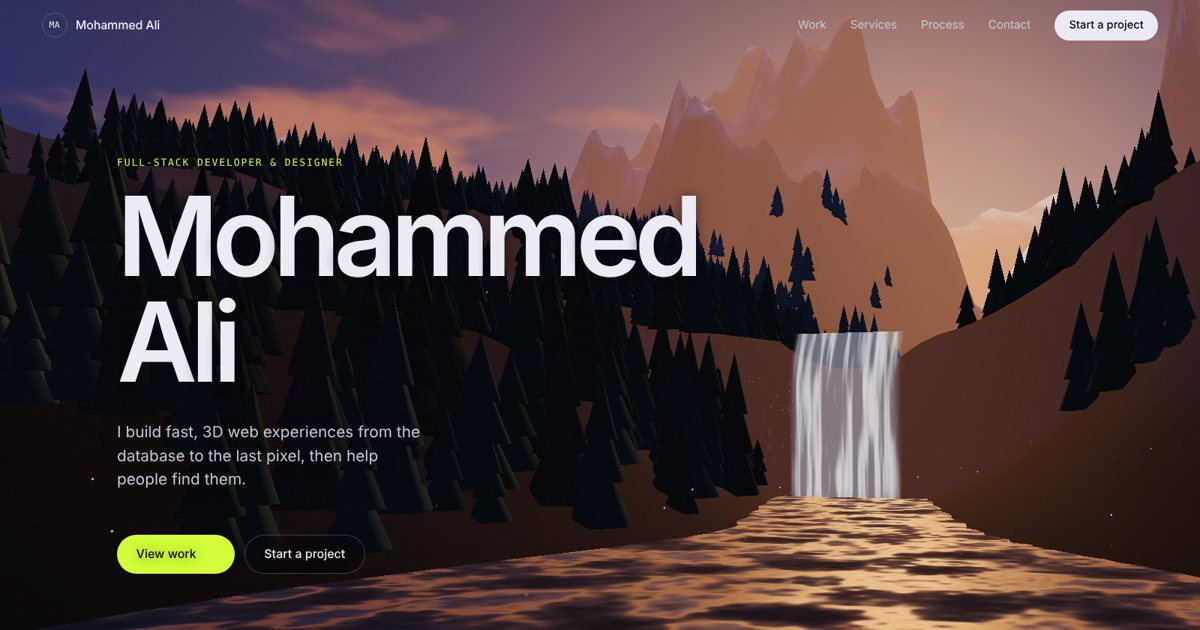
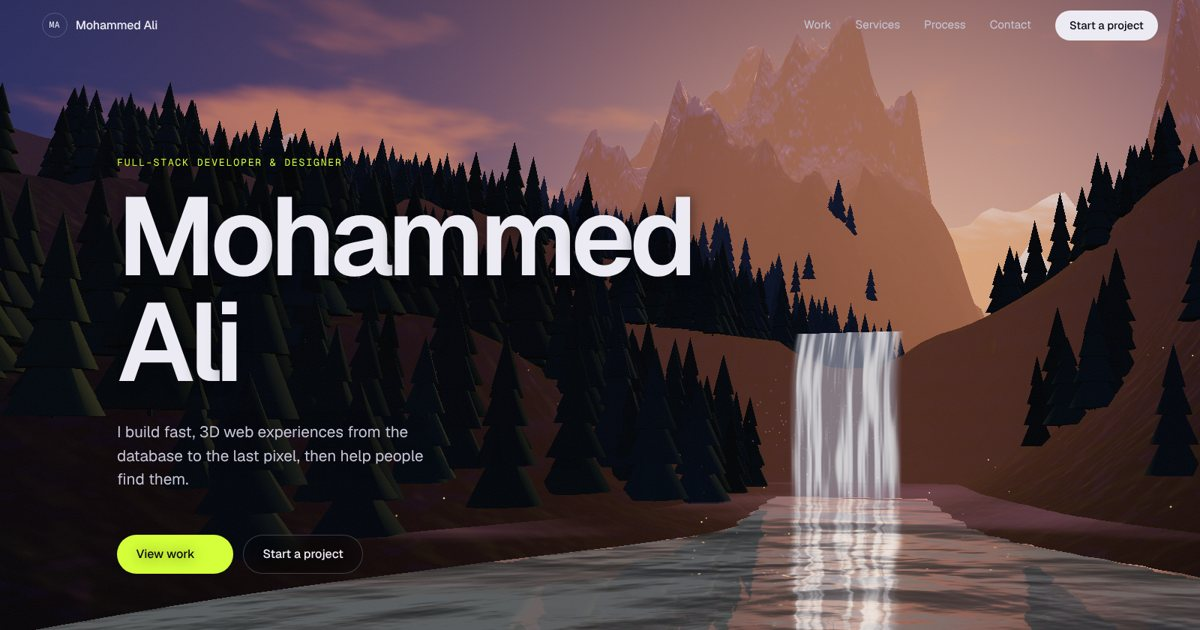
Mirror lake, rocky relief, swaying pines, birds and lake mist
- Lake (and the upper river on desktop) use real-time reflections, so
  the waterfall, peaks, forest and sunset reflect in the water
- Terrain gets fine bump relief, rock strata and darker crevices
- Fuller four-tier pines that sway in the wind
- A flock of birds crossing the valley and low mist over the lake
- Lighter terrain shading and lower pixel ratio on phones
- New poster and social image

Claude-Session: https://claude.ai/code/session_01PqPWpic3SoAv147RGqRmVc

diff --git a/src/scene.js b/src/scene.js
@@ -19,7 +19,9 @@ import {
   BufferAttribute, PlaneGeometry, SphereGeometry, ConeGeometry, ShaderMaterial, MeshLambertMaterial,
   HemisphereLight, DirectionalLight, Object3D, Color, Vector2, Vector3, Fog, MathUtils,
   BackSide, DoubleSide, AdditiveBlending, ACESFilmicToneMapping, SRGBColorSpace,
+  TextureLoader, RepeatWrapping, InstancedBufferAttribute,
 } from 'three';
+import { Water } from 'three/addons/objects/Water.js';
 import { EffectComposer } from 'three/addons/postprocessing/EffectComposer.js';
 import { RenderPass } from 'three/addons/postprocessing/RenderPass.js';
 import { UnrealBloomPass } from 'three/addons/postprocessing/UnrealBloomPass.js';
@@ -153,7 +155,7 @@ function makeChapters() {
 /* ---------------------------------------------------------------- world */
 export function createWorld(canvas, { mobile = false } = {}) {
   const renderer = new WebGLRenderer({ canvas, antialias: !mobile, alpha: false, powerPreference: 'high-performance' });
-  const dpr = Math.min(window.devicePixelRatio || 1, mobile ? 1.5 : 1.75);
+  const dpr = Math.min(window.devicePixelRatio || 1, mobile ? 1.3 : 1.75);
   renderer.setPixelRatio(dpr);
   renderer.toneMapping = ACESFilmicToneMapping;
   renderer.toneMappingExposure = 1.0;
@@ -211,6 +213,7 @@ export function createWorld(canvas, { mobile = false } = {}) {
   for (let i = 0; i < tp.count; i++) tp.setY(i, heightAt(tp.getX(i), tp.getZ(i)));
   tGeo.computeVertexNormals();
   const terrainMat = track(new ShaderMaterial({
+    defines: { DETAIL: mobile ? 0 : 1 },
     uniforms: {
       ...skyU,
       uForest: { value: P.forest }, uMeadow: { value: P.meadow }, uRock: { value: P.rock }, uSnow: { value: P.snow },
@@ -223,6 +226,16 @@ export function createWorld(canvas, { mobile = false } = {}) {
       varying vec3 vW; varying vec3 vN;
       void main(){
         vec3 n = normalize(vN);
+        // fine relief: perturb the normal with a small noise gradient so slopes are not flat
+        vec2 q = vW.xz * 0.22;
+        #if DETAIL
+        float b0 = n2(q) * 0.55 + n2(q * 2.7) * 0.3 + n2(q * 6.1) * 0.15;
+        float bx = n2(q + vec2(0.08, 0.0)) * 0.55 + n2((q + vec2(0.08, 0.0)) * 2.7) * 0.3 + n2((q + vec2(0.08, 0.0)) * 6.1) * 0.15;
+        float bz = n2(q + vec2(0.0, 0.08)) * 0.55 + n2((q + vec2(0.0, 0.08)) * 2.7) * 0.3 + n2((q + vec2(0.0, 0.08)) * 6.1) * 0.15;
+        n = normalize(n + vec3(-(bx - b0), 0.0, -(bz - b0)) * 9.0);
+        #else
+        float b0 = n2(q) * 0.6 + n2(q * 2.7) * 0.4;
+        #endif
         float slope = 1.0 - n.y;
         float h = vW.y;
         float var = fbm2(vW.xz * 0.05);
@@ -230,6 +243,10 @@ export function createWorld(canvas, { mobile = false } = {}) {
         col = mix(col, uRock, smoothstep(0.32, 0.55, slope + var * 0.15));
         col = mix(col, uRock, smoothstep(55.0, 85.0, h + var * 18.0));
         float snow = smoothstep(95.0, 125.0, h + var * 30.0) * (1.0 - smoothstep(0.45, 0.75, slope));
+        // rock strata and darker crevices
+        float rocky = smoothstep(0.3, 0.6, slope) + smoothstep(55.0, 85.0, h);
+        col *= mix(1.0, 0.82 + 0.18 * sin(h * 1.9 + var * 7.0 + b0 * 3.0), clamp(rocky, 0.0, 1.0));
+        col *= 0.72 + 0.4 * b0;
         col = mix(col, uSnow, snow);
         // light: warm sun from behind the peaks, cool sky fill
         float diff = max(dot(n, normalize(uSunDir + vec3(0.0, 0.25, 0.0))), 0.0);
@@ -307,16 +324,50 @@ export function createWorld(canvas, { mobile = false } = {}) {
         r.y = abs(r.y);
         float fres = 0.08 + 0.92 * pow(1.0 - max(dot(-v, n), 0.0), 4.0);
         vec3 col = mix(uWater, skyColor(r) * 0.45, fres * 0.8);
-        float glint = pow(max(dot(r, normalize(uSunDir)), 0.0), 180.0);
-        col += uSun * glint * 0.8;
+        float glint = pow(max(dot(r, normalize(uSunDir)), 0.0), 260.0);
+        col += uSun * glint * 0.35;
         gl_FragColor = vec4(aerial(col, vW, 0.95), 0.94);
         ${OUT}
       }`,
   }));
-  const lake = new Mesh(track(new PlaneGeometry(220, 160)), waterMat);
+  // the lake is a true mirror: it reflects the peaks, the forest and the sunset sky
+  const normals = track(new TextureLoader().load('/textures/waternormals.jpg'));
+  normals.wrapS = normals.wrapT = RepeatWrapping;
+  const lake = new Water(track(new PlaneGeometry(220, 160)), {
+    textureWidth: mobile ? 320 : 900, textureHeight: mobile ? 320 : 900,
+    waterNormals: normals, sunDirection: SUN_DIR.clone(), sunColor: 0xffb878,
+    waterColor: 0x020a12, distortionScale: 0.7, fog: false,
+  });
+  lake.material.uniforms.size.value = 2.4;
   lake.rotation.x = -Math.PI / 2; lake.position.set(0, LOW_WATER, CLIFF_Z + 80);
+  track(lake.material);
   scene.add(lake);
-  const river = new Mesh(track(new PlaneGeometry(200, 330)), waterMat);
+
+  /* ---- low mist drifting over the lake ---- */
+  const mistSheet = new Mesh(track(new PlaneGeometry(240, 170, 1, 1)), track(new ShaderMaterial({
+    transparent: true, depthWrite: false,
+    uniforms: { uTime, ...skyU },
+    vertexShader: 'varying vec3 vW; void main(){ vec4 w = modelMatrix * vec4(position, 1.0); vW = w.xyz; gl_Position = projectionMatrix * viewMatrix * w; }',
+    fragmentShader: `${SKY_FN}${NOISE_GLSL}
+      uniform float uTime; varying vec3 vW;
+      void main(){
+        vec2 p = vW.xz * 0.035 + vec2(uTime * 0.012, uTime * 0.004);
+        float m = smoothstep(0.42, 0.85, fbm2(p) * 0.7 + fbm2(p * 2.3 - uTime * 0.01) * 0.4);
+        float d = length(vW - cameraPosition);
+        m *= smoothstep(6.0, 40.0, d);
+        vec3 c = mix(uHorCool, uHorWarm, 0.25) * 1.1;
+        gl_FragColor = vec4(c, m * 0.32);
+        ${OUT}
+      }`,
+  })));
+  mistSheet.rotation.x = -Math.PI / 2; mistSheet.position.set(0, LOW_WATER + 1.6, CLIFF_Z + 78);
+  scene.add(mistSheet);
+  // upper river: a mirror on desktop, a light shader on phones
+  const river = mobile ? new Mesh(track(new PlaneGeometry(200, 330)), waterMat) : new Water(track(new PlaneGeometry(200, 330)), {
+    textureWidth: 640, textureHeight: 640, waterNormals: normals, sunDirection: SUN_DIR.clone(), sunColor: 0xffb878,
+    waterColor: 0x020a12, distortionScale: 1.4, fog: false,
+  });
+  if (!mobile) { river.material.uniforms.size.value = 2.0; track(river.material); }
   river.rotation.x = -Math.PI / 2; river.position.set(0, HIGH_WATER, CLIFF_Z - 3 - 165);
   scene.add(river);
 
@@ -395,13 +446,25 @@ export function createWorld(canvas, { mobile = false } = {}) {
   const sun = new DirectionalLight(new Color('#ffb070'), 1.3);
   sun.position.copy(SUN_DIR).multiplyScalar(100).add(new Vector3(0, 60, 0));
   scene.add(hemi, sun);
-  const tiers = [[1.0, 0.55, 0.0], [0.78, 0.5, 0.28], [0.52, 0.42, 0.55]].map(([r, h, y]) => {
+  const tiers = [[1.0, 0.42, 0.04], [0.82, 0.4, 0.26], [0.62, 0.36, 0.48], [0.4, 0.32, 0.68]].map(([r, h, y]) => {
     const g = new ConeGeometry(r, h, 7, 1); g.translate(0, y + h / 2, 0); return g;
   });
   const trunk = new ConeGeometry(0.12, 0.2, 5, 1); trunk.translate(0, 0.0, 0);
   const treeGeo = track(mergeGeometries([trunk, ...tiers]));
   tiers.forEach((g) => g.dispose()); trunk.dispose();
   const treeMat = track(new MeshLambertMaterial({ color: 0xffffff }));
+  treeMat.onBeforeCompile = (shader) => {
+    shader.uniforms.uTime = uTime;
+    shader.vertexShader = shader.vertexShader
+      .replace('#include <common>', '#include <common>\nuniform float uTime;')
+      .replace('#include <begin_vertex>', `#include <begin_vertex>
+        #ifdef USE_INSTANCING
+          vec3 ip = instanceMatrix[3].xyz;
+          float sway = sin(uTime * 1.1 + ip.x * 0.15 + ip.z * 0.11) * 0.5 + sin(uTime * 2.3 + ip.x * 0.4) * 0.2;
+          transformed.x += sway * 0.05 * position.y * position.y;
+          transformed.z += sway * 0.03 * position.y * position.y;
+        #endif`);
+  };
   const want = mobile ? 1400 : 3600;
   const keepClear = Object.values(makeChapters()).flatMap((c) => [[c.pos[0], c.pos[2]], [(c.mpos || c.pos)[0], (c.mpos || c.pos)[2]]]);
   const trees = new InstancedMesh(treeGeo, treeMat, want);
@@ -432,6 +495,55 @@ export function createWorld(canvas, { mobile = false } = {}) {
   trees.instanceMatrix.needsUpdate = true;
   if (trees.instanceColor) trees.instanceColor.needsUpdate = true;
   scene.add(trees);
+
+  /* ---- a small flock of birds crossing the evening sky ---- */
+  const birdN = mobile ? 9 : 14;
+  const birdGeo = track(new BufferGeometry());
+  birdGeo.setAttribute('position', new BufferAttribute(new Float32Array([
+    0, 0, 0.25,  -1, 0.1, -0.1,  0, 0, -0.2,
+    0, 0, 0.25,   1, 0.1, -0.1,  0, 0, -0.2,
+  ]), 3));
+  const birdOff = new Float32Array(birdN * 4);
+  for (let i = 0; i < birdN; i++) {
+    const row = Math.ceil(i / 2), side = i % 2 ? 1 : -1;
+    birdOff.set([side * row * 2.2 + (Math.random() - 0.5), -row * 0.5 + (Math.random() - 0.5) * 0.6, row * 2.4, Math.random()], i * 4);
+  }
+  birdGeo.setAttribute('aOff', new InstancedBufferAttribute(birdOff, 4));
+  const birdMat = track(new ShaderMaterial({
+    side: DoubleSide,
+    uniforms: { uTime, ...skyU },
+    vertexShader: /* glsl */ `
+      uniform float uTime; attribute vec4 aOff; varying vec3 vW;
+      void main(){
+        vec3 p = position;
+        float flap = sin(uTime * 7.0 + aOff.w * 6.28);
+        p.y += abs(p.x) * flap * 0.55;
+        p *= 1.5;
+        // the flock glides in a long, slow loop across the valley
+        float t = uTime * 0.035 + 1.2;
+        vec3 c = vec3(sin(t) * 55.0, 27.0 + sin(t * 2.0) * 4.0, -35.0 + cos(t) * 22.0);
+        vec3 dir = normalize(vec3(cos(t) * 55.0, cos(t * 2.0) * 8.0, -sin(t) * 22.0));
+        vec3 side = normalize(cross(vec3(0.0, 1.0, 0.0), dir));
+        vec3 up = cross(dir, side);
+        vec3 off = side * aOff.x + up * aOff.y - dir * aOff.z;
+        off += vec3(sin(uTime * 0.7 + aOff.w * 9.0), sin(uTime * 0.9 + aOff.w * 5.0) * 0.6, 0.0) * 0.8;
+        vec3 wp = c + off + side * p.x + up * p.y + dir * p.z;
+        vW = wp;
+        gl_Position = projectionMatrix * viewMatrix * vec4(wp, 1.0);
+      }`,
+    fragmentShader: `${SKY_FN}
+      varying vec3 vW;
+      void main(){
+        vec3 v = vW - cameraPosition;
+        float a = 1.0 - exp(-length(v) * 0.004);
+        vec3 col = mix(vec3(0.015, 0.018, 0.03), skyColor(normalize(v)), a * 0.8);
+        gl_FragColor = vec4(col, 1.0);
+        ${OUT}
+      }`,
+  }));
+  const birds = new InstancedMesh(birdGeo, birdMat, birdN);
+  birds.frustumCulled = false;
+  scene.add(birds);
 
   /* ---- fireflies over the lake shore ---- */
   const ffN = mobile ? 90 : 200;
@@ -532,6 +644,8 @@ export function createWorld(canvas, { mobile = false } = {}) {
     last = now;
     time += dt;
     uTime.value = time;
+    lake.material.uniforms.time.value = time * 0.25;
+    if (river.material.uniforms.time) river.material.uniforms.time.value = time * 0.4;
     intro = Math.min(1, intro + dt / 3.0);
     velocity *= 0.9;
 

diff --git a/README.md b/README.md
@@ -8,7 +8,7 @@ The personal portfolio of **Mohammed Ali**, a full-stack web developer who also 
 
 ## Highlights
 
-- **A natural 3D landscape.** The whole page sits inside one mountain valley at dusk, built entirely in code with Three.js (no image files): a waterfall pouring into a lake, a river winding up through pine forest, layered mountain ranges with snowy peaks, drifting clouds, mist at the waterfall and fireflies over the water. Distant hills fade into the evening haze the way real mountains do.
+- **A natural 3D landscape.** The whole page sits inside one mountain valley at dusk, built in code with Three.js: a waterfall pouring into a mirror-still lake that truly reflects the peaks, trees and sunset, a river winding up through pine forest, layered mountain ranges with snowy peaks, drifting clouds, low mist over the water, a flock of birds, fireflies, and pines that sway in the wind. Slopes have fine rocky relief and layered strata. Distant hills fade into the evening haze the way real mountains do.
 - **Scroll-driven camera.** Scrolling flies the camera up the valley. Each section has its own view, framed on the side opposite the text, and the camera eases smoothly between them. Moving the pointer adds gentle depth.
 - **Readable on every screen.** The near landscape stays dark and the warm light lives on the horizon, so text keeps strong contrast; phones get a lighter scene (fewer trees, less detail, no glow pass) so scrolling stays smooth.
 - **Live GitHub projects.** Every public repository is pulled from the GitHub API in the visitor's browser, so new repos show up without a rebuild. Filter them by language; deployed repos get a **Live site** link.
